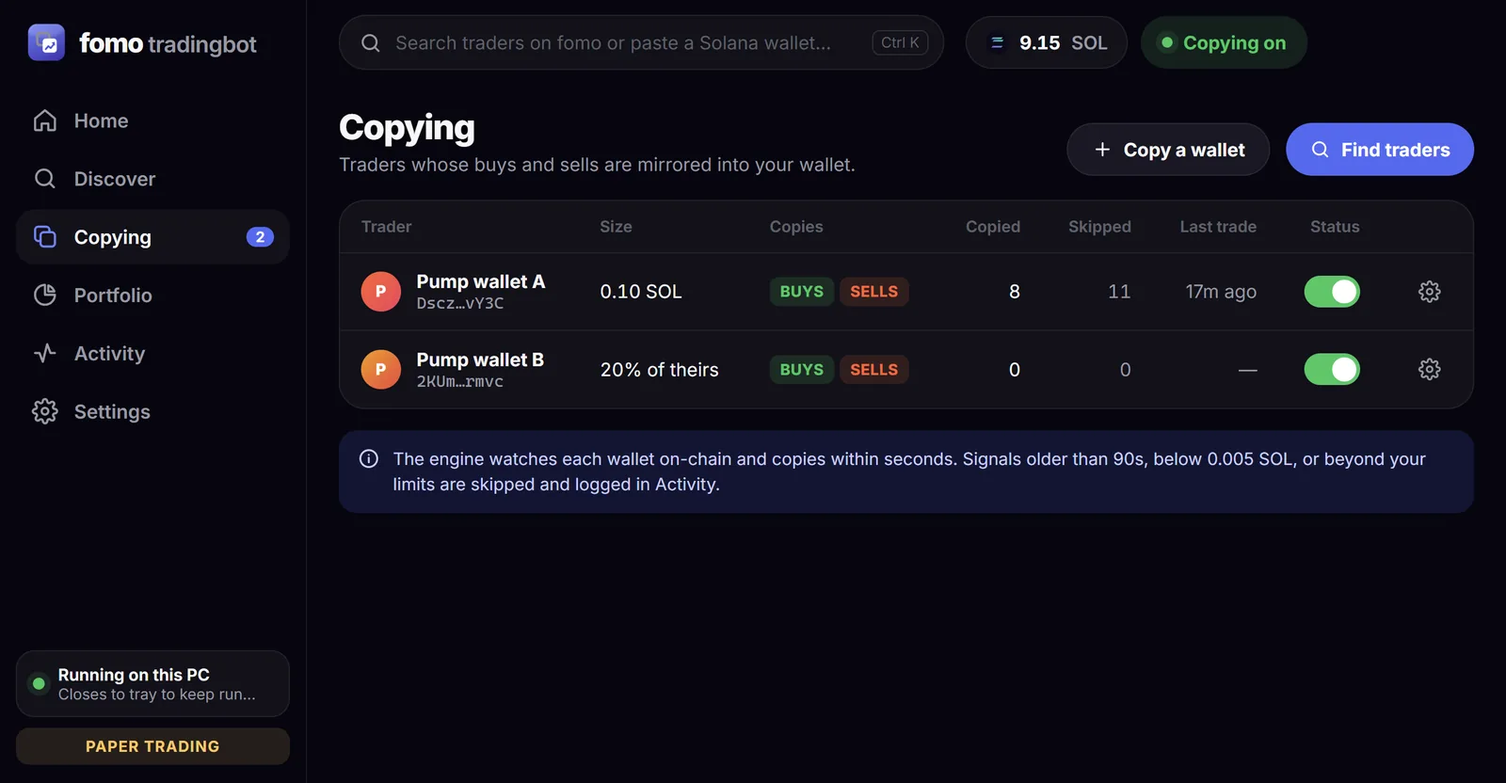
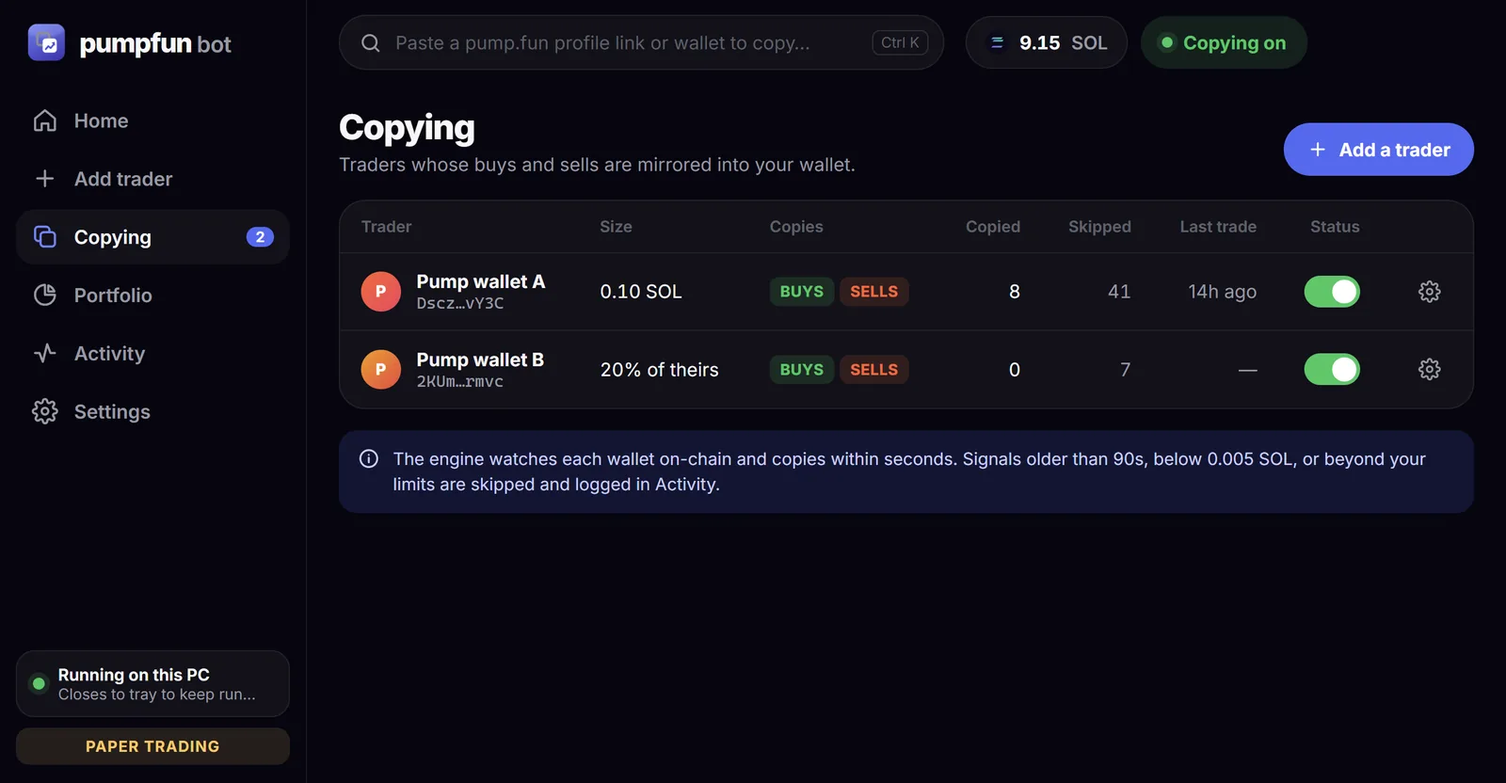
v1.5.0: rename to Pumpfun Bot (data and updates carry over)

diff --git a/web/index.html b/web/index.html
@@ -3,9 +3,9 @@
 <head>
   <meta charset="utf-8">
   <meta name="viewport" content="width=device-width, initial-scale=1">
-  <title>Fomo Tradingbot — copy trade pump.fun traders on autopilot</title>
+  <title>Pumpfun Bot — copy trade pump.fun traders on autopilot</title>
   <meta name="description" content="Paste any pump.fun trader and mirror their Solana buys and sells within seconds. Windows desktop app plus a 24/7 server for a spare PC. Paper mode, risk limits, keys stay on your machine.">
-  <meta property="og:title" content="Fomo Tradingbot">
+  <meta property="og:title" content="Pumpfun Bot">
   <meta property="og:description" content="Copy trade pump.fun traders on autopilot. Desktop app + 24/7 server.">
   <meta property="og:image" content="/img/home.webp">
   <meta name="theme-color" content="#060510">
@@ -19,7 +19,7 @@
 <body>
   <header class="nav">
     <div class="wrap nav-in">
-      <a href="/" class="logo"><img src="/img/icon.png" alt=""><span><b>fomo</b> tradingbot</span></a>
+      <a href="/" class="logo"><img src="/img/icon.png" alt=""><span><b>pumpfun</b> bot</span></a>
       <nav class="links">
         <a href="#features">Features</a>
         <a href="#how">How it works</a>
@@ -38,7 +38,7 @@
         <h1>Copy the best traders<br>on <span class="grad">pump.fun</span>. Automatically.</h1>
         <p class="lead">Paste a trader&#39;s pump.fun profile link, hit <b>Copy</b>. Every buy and sell they make is mirrored into your wallet within seconds — with your sizing and your limits.</p>
         <div class="cta" id="download">
-          <a class="btn white lg" href="https://github.com/rimidalvsulrod/fomo-tradingbot/releases/latest/download/FomoTradingbot-Setup.exe">
+          <a class="btn white lg" href="https://github.com/rimidalvsulrod/fomo-tradingbot/releases/latest/download/PumpfunBot-Setup.exe">
             <svg viewBox="0 0 24 24"><path fill="currentColor" d="M3 5.5 10.5 4.4v7.1H3zm8.5-1.2L21 3v8.5h-9.5zM3 12.5h7.5v7.1L3 18.5zm8.5 0H21V21l-9.5-1.3z"/></svg>
             Download for Windows
           </a>
@@ -46,7 +46,7 @@
         </div>
         <div class="fine">Free · one-click install · updates itself · starts in paper mode</div>
         <div class="shot-wrap">
-          <img class="shot" src="/img/home.webp" alt="Fomo Tradingbot dashboard showing portfolio, copied traders and live feed" width="1600" height="832">
+          <img class="shot" src="/img/home.webp" alt="Pumpfun Bot dashboard showing portfolio, copied traders and live feed" width="1600" height="832">
         </div>
       </div>
     </section>
@@ -67,7 +67,7 @@
         <article class="feat"><div class="ic">⚡</div><h3>Mirror buys &amp; sells</h3><p>The engine watches each trader's Solana wallet live. When they buy, you buy. When they sell 40% of a bag, you sell 40% of yours.</p></article>
         <article class="feat"><div class="ic">🧪</div><h3>Paper mode first</h3><p>Every new install simulates trades with real Jupiter quotes. Watch a trader's real performance before you put a single SOL on the line.</p></article>
         <article class="feat"><div class="ic">🛡</div><h3>Risk limits</h3><p>Fixed SOL or % of their size, max per trade, daily spend cap, SOL reserve, max positions, auto take-profit and stop-loss.</p></article>
-        <article class="feat"><div class="ic">🖥</div><h3>24/7 server</h3><p>Run FomoTradingbotServer.exe on a spare PC and the bot never sleeps. Pair your desktop app with a 6-digit code — no ports, no accounts.</p></article>
+        <article class="feat"><div class="ic">🖥</div><h3>24/7 server</h3><p>Turn on Run 24/7 on a spare PC and the bot never sleeps. Pair your desktop app with a 6-digit code — no ports, no accounts.</p></article>
         <article class="feat"><div class="ic">🔐</div><h3>Your keys stay home</h3><p>Use a dedicated trading wallet. Its key is encrypted on the machine that runs the bot, sent over the LAN encrypted, and never uploaded anywhere.</p></article>
       </div>
     </section>
@@ -100,13 +100,13 @@
             <li><b>Optional:</b> turn on <i>Let my other PCs connect</i>, then on your main PC use Settings → <i>Find computers</i> and type the pairing code to control it remotely.</li>
           </ol>
           <div class="cta left">
-            <a class="btn primary lg" href="https://github.com/rimidalvsulrod/fomo-tradingbot/releases/latest/download/FomoTradingbot-Setup.exe">Download the app</a>
-            <a class="btn ghost lg" href="https://github.com/rimidalvsulrod/fomo-tradingbot/releases/latest/download/FomoTradingbotServer.exe">Headless server (advanced)</a>
+            <a class="btn primary lg" href="https://github.com/rimidalvsulrod/fomo-tradingbot/releases/latest/download/PumpfunBot-Setup.exe">Download the app</a>
+            <a class="btn ghost lg" href="https://github.com/rimidalvsulrod/fomo-tradingbot/releases/latest/download/PumpfunBotServer.exe">Headless server (advanced)</a>
           </div>
         </div>
         <div class="term" aria-label="Server window preview">
-          <div class="term-bar"><span></span><span></span><span></span><em>Fomo Tradingbot Server</em></div>
-<pre><span class="b">fomo</span> <b>tradingbot</b>  <span class="g">server v1.0.0</span>
+          <div class="term-bar"><span></span><span></span><span></span><em>Pumpfun Bot Server</em></div>
+<pre><span class="b">pumpfun</span> <b>bot</b>  <span class="g">server v1.0.0</span>
 <span class="g">Copy-trading engine that keeps running 24/7.</span>
 
 <b>Connect the desktop app</b>
@@ -126,7 +126,7 @@
     <section id="faq" class="wrap sec">
       <div class="sec-h"><span class="eyebrow">FAQ</span><h2>Questions</h2></div>
       <div class="faq">
-        <details><summary>Is this the official fomo app?</summary><p>No. Fomo Tradingbot is an independent, unofficial tool and is not affiliated with or endorsed by Fomo Labs or pump.fun. It doesn't log in to fomo or use fomo's systems — it copies Solana wallets you choose.</p></details>
+        <details><summary>Is this made by pump.fun?</summary><p>No. Pumpfun Bot is an independent, unofficial tool and is not affiliated with or endorsed by pump.fun or Fomo Labs. It doesn't log in to fomo or use fomo's systems — it copies Solana wallets you choose.</p></details>
         <details><summary>How do I find a trader to copy?</summary><p>On pump.fun, open any coin and click a name in its trades list — their profile link (pump.fun/profile/…) contains their wallet. Paste that link into the app. You don&#39;t need a pump.fun account.</p></details>
         <details><summary>Which coins can it copy?</summary><p>Anything on Solana — including brand-new pump.fun coins still on the bonding curve and coins that have graduated. Buys and sells go through Jupiter at the best available price.</p></details>
         <details><summary>Where does my private key go?</summary><p>Nowhere. Import a dedicated trading wallet in Settings; the key is encrypted with a key unique to the machine running the bot. When you pair with a server, the key travels across your LAN encrypted with that pairing's secret.</p></details>
@@ -139,14 +139,14 @@
     <section class="wrap final">
       <h2>Never miss a trade again.</h2>
       <div class="cta">
-        <a class="btn white lg" href="https://github.com/rimidalvsulrod/fomo-tradingbot/releases/latest/download/FomoTradingbot-Setup.exe">Download for Windows</a>
+        <a class="btn white lg" href="https://github.com/rimidalvsulrod/fomo-tradingbot/releases/latest/download/PumpfunBot-Setup.exe">Download for Windows</a>
         </div>
     </section>
   </main>
 
   <footer class="wrap foot">
-    <div class="logo small"><img src="/img/icon.png" alt=""><span><b>fomo</b> tradingbot</span></div>
-    <p>Unofficial tool. Not affiliated with Fomo Labs or pump.fun. Copy trading memecoins is extremely risky — you can lose everything you put in. Nothing here is financial advice. MIT license.</p>
+    <div class="logo small"><img src="/img/icon.png" alt=""><span><b>pumpfun</b> bot</span></div>
+    <p>Unofficial tool. Not affiliated with pump.fun or Fomo Labs. Copy trading memecoins is extremely risky — you can lose everything you put in. Nothing here is financial advice. MIT license.</p>
   </footer>
 </body>
 </html>

diff --git a/desktop/main.js b/desktop/main.js
@@ -8,7 +8,8 @@ const WebSocket = require('ws');
 const { Engine, startApi, secure, DISCOVERY_PORT, DISCOVERY_MAGIC, VERSION } = require('../engine');
 
 app.setAppUserModelId('com.fomotradingbot.desktop');
-if (process.env.FOMOBOT_USERDATA) app.setPath('userData', process.env.FOMOBOT_USERDATA);
+// Data folder stays 'fomo-tradingbot' from before the rename so settings, wallet and traders carry over.
+app.setPath('userData', process.env.FOMOBOT_USERDATA || path.join(app.getPath('appData'), 'fomo-tradingbot'));
 if (!app.requestSingleInstanceLock()) { app.quit(); process.exit(0); }
 
 const userData = app.getPath('userData');
@@ -93,7 +94,7 @@ function state247() {
     run247: !!cfg.run247,
     lanAccess: !!cfg.lanAccess,
     lanActive: !!(local && local.lan),
-    lanError: cfg.lanAccess && local && !local.lan ? `Port ${cfg.lanPort || 7420} is in use on this PC (is FomoTradingbotServer.exe running here too?)` : null,
+    lanError: cfg.lanAccess && local && !local.lan ? `Port ${cfg.lanPort || 7420} is in use on this PC (is PumpfunBotServer.exe running here too?)` : null,
     port: local && local.lan ? local.port : cfg.lanPort || 7420,
     pin: local && local.lan ? local.api.pin : null,
     ips,
@@ -176,7 +177,7 @@ async function engineRequest(method, p, body) {
 
 function friendlyNetError(e) {
   const m = String(e?.cause?.code || e?.code || e?.message || e);
-  if (/ECONNREFUSED/.test(m)) return 'Server not reachable — is FomoTradingbotServer.exe running?';
+  if (/ECONNREFUSED/.test(m)) return 'Bot not reachable — is the other PC on and the bot running?';
   if (/ETIMEDOUT|EHOSTUNREACH|ENETUNREACH|timeout|aborted/i.test(m)) return 'Server not reachable — check the IP and that both PCs are on the same network';
   return e?.message || m;
 }
@@ -217,7 +218,7 @@ function createWindow() {
   win = new BrowserWindow({
     width: 1360, height: 860, minWidth: 1040, minHeight: 660,
     backgroundColor: '#060510',
-    title: 'Fomo Tradingbot',
+    title: 'Pumpfun Bot',
     icon: path.join(__dirname, '..', 'assets', 'icon.ico'),
     titleBarStyle: 'hidden',
     titleBarOverlay: { color: '#060510', symbolColor: '#9899a3', height: 44 },
@@ -235,7 +236,7 @@ function createWindow() {
     e.preventDefault();
     win.hide();
     if (!cfg.trayHintShown && tray) {
-      tray.displayBalloon({ title: 'Still copy trading', content: 'Fomo Tradingbot keeps running in the tray. Right-click the icon to quit.', iconType: 'info' });
+      tray.displayBalloon({ title: 'Still copy trading', content: 'Pumpfun Bot keeps running in the tray. Right-click the icon to quit.', iconType: 'info' });
       cfg.trayHintShown = true;
       saveCfg();
     }
@@ -249,16 +250,16 @@ function createWindow() {
 
 function createTray() {
   tray = new Tray(nativeImage.createFromPath(path.join(__dirname, '..', 'assets', 'icon.ico')));
-  tray.setToolTip('Fomo Tradingbot');
+  tray.setToolTip('Pumpfun Bot');
   tray.on('click', showWindow);
   updateTray();
 }
 
 function updateTray() {
   if (!tray) return;
-  tray.setToolTip(`Fomo Tradingbot — ${connState.connected ? (connState.kind === 'local' ? 'running on this PC' : 'connected to ' + connState.name) : 'disconnected'}`);
+  tray.setToolTip(`Pumpfun Bot — ${connState.connected ? (connState.kind === 'local' ? 'running on this PC' : 'connected to ' + connState.name) : 'disconnected'}`);
   tray.setContextMenu(Menu.buildFromTemplate([
-    { label: 'Open Fomo Tradingbot', click: showWindow },
+    { label: 'Open Pumpfun Bot', click: showWindow },
     { type: 'separator' },
     { label: 'Pause copy trading', click: () => engineRequest('POST', '/api/bot/stop') },
     { label: 'Resume copy trading', click: () => engineRequest('POST', '/api/bot/start') },
@@ -363,7 +364,7 @@ function setupUpdates() {
   autoUpdater.on('update-available', (i) => setUpdateState({ state: 'downloading', version: i.version }));
   autoUpdater.on('update-downloaded', (i) => {
     setUpdateState({ state: 'ready', version: i.version });
-    if (tray) tray.displayBalloon({ title: 'Update ready', content: `Fomo Tradingbot ${i.version} is ready. Restart from the app to install it.`, iconType: 'info' });
+    if (tray) tray.displayBalloon({ title: 'Update ready', content: `Pumpfun Bot ${i.version} is ready. Restart from the app to install it.`, iconType: 'info' });
   });
   autoUpdater.on('error', (e) => dlog('update error', e));
   const check = () => autoUpdater.checkForUpdates().catch((e) => dlog('update check failed', e));
@@ -388,7 +389,7 @@ app.whenReady().then(async () => {
     await connect();
   } catch (e) {
     dlog('connect failed', e);
-    dialog.showErrorBox('Fomo Tradingbot', 'Could not start the trading engine: ' + e.message);
+    dialog.showErrorBox('Pumpfun Bot', 'Could not start the trading engine: ' + e.message);
   }
   if (process.env.FOMOBOT_SCREENSHOT) captureScreens(process.env.FOMOBOT_SCREENSHOT);
 });

diff --git a/desktop/renderer/app.js b/desktop/renderer/app.js
@@ -119,7 +119,6 @@ const S = {
   trades: [],
   logs: [],
   conn: { connected: false, kind: 'local' },
-  fomo: { signedIn: false, me: null, checked: false },
   discover: { q: '', error: null },
   activityTab: 'trades',
   activityFilter: 'all',
@@ -812,9 +811,9 @@ VIEWS.settings = () => {
         ${S.always.lanError ? `<div class="note warn" style="margin-top:8px">${icon('warn')}<div>${esc(S.always.lanError)}</div></div>` : ''}
         ${S.always.lanActive ? `<div class="server-item" style="margin-top:8px"><div class="server-ico">${icon('link')}</div><div class="grow"><div class="small muted">On your other PC: Settings → Find computers, or enter</div><div class="mono" style="margin-top:2px">${S.always.ips.map((i) => `${esc(i.address)}:${esc(S.always.port)}`).join(' · ') || 'no network found'}</div></div><div style="text-align:right"><div class="small muted">Pairing code</div><div class="num" style="font-size:22px;font-weight:800;letter-spacing:.12em">${esc(String(S.always.pin || '').replace(/(\d{3})(\d{3})/, '$1 $2'))}</div><a class="small" id="newPin">New code</a></div></div>` : ''}` : ''}
         <div class="sec-title">${c.kind === 'local' ? 'Control a bot on another PC' : 'Switch computer'}</div>
-        <div class="muted small" style="line-height:1.55;margin-bottom:12px">If the bot runs on another PC (this app with “Let my other PCs connect” on, or FomoTradingbotServer.exe), find it here. Both PCs need to be on the same network.</div>
+        <div class="muted small" style="line-height:1.55;margin-bottom:12px">If the bot runs on another PC (this app with “Let my other PCs connect” on, or PumpfunBotServer.exe), find it here. Both PCs need to be on the same network.</div>
         <div class="row"><button class="btn primary" id="discoverBtn">${SET.discovering ? '<span class="spinner sm"></span>Searching…' : icon('search') + 'Find computers'}</button><button class="btn ghost" id="manualConn">Enter IP manually</button></div>
-        ${SET.discovered ? `<div style="margin-top:14px">${SET.discovered.length ? SET.discovered.map((d) => `<div class="server-item"><div class="server-ico">${icon('server')}</div><div class="grow"><div style="font-weight:700">${esc(d.name)}</div><div class="small muted mono">${esc(d.host)}:${esc(d.port)} · v${esc(d.version)}</div></div><button class="btn primary sm" data-pair="${esc(d.host)}" data-port="${esc(d.port)}" data-name="${esc(d.name)}">Pair</button></div>`).join('') : `<div class="note warn">${icon('warn')}<div>Nothing found. Make sure the bot is running on the other PC (this app with “Let my other PCs connect” on, or FomoTradingbotServer.exe), both PCs are on the same Wi-Fi/LAN, and Windows Firewall allowed it (it asks the first time). Or use “Enter IP manually”.</div></div>`}</div>` : ''}
+        ${SET.discovered ? `<div style="margin-top:14px">${SET.discovered.length ? SET.discovered.map((d) => `<div class="server-item"><div class="server-ico">${icon('server')}</div><div class="grow"><div style="font-weight:700">${esc(d.name)}</div><div class="small muted mono">${esc(d.host)}:${esc(d.port)} · v${esc(d.version)}</div></div><button class="btn primary sm" data-pair="${esc(d.host)}" data-port="${esc(d.port)}" data-name="${esc(d.name)}">Pair</button></div>`).join('') : `<div class="note warn">${icon('warn')}<div>Nothing found. Make sure the bot is running on the other PC (this app with “Let my other PCs connect” on, or PumpfunBotServer.exe), both PCs are on the same Wi-Fi/LAN, and Windows Firewall allowed it (it asks the first time). Or use “Enter IP manually”.</div></div>`}</div>` : ''}
       </div>
 
       <div class="card">
@@ -876,7 +875,7 @@ VIEWS.settings = () => {
       <div class="card">
         <div class="card-h">${icon('info')}<h3>App</h3><span class="muted small" style="margin-left:auto">v${esc(S.info.version || '')}</span></div>
         <div class="toggle-row"><div class="grow"><div class="t">Keep running in the tray</div><div class="d">Closing the window keeps the local engine copying</div></div><label class="switch"><input type="checkbox" id="trayToggle" ${S.info.closeToTray ? 'checked' : ''}><span></span></label></div>
-        <div class="small faint" style="margin-top:10px;line-height:1.5">Unofficial tool, not affiliated with Fomo Labs or pump.fun. Copy trading is risky — memecoins can go to zero in minutes. Nothing here is financial advice.</div>
+        <div class="small faint" style="margin-top:10px;line-height:1.5">Unofficial tool, not affiliated with pump.fun or Fomo Labs. Copy trading is risky — memecoins can go to zero in minutes. Nothing here is financial advice.</div>
       </div>
     </div>
   </div>`;

diff --git a/server/update.js b/server/update.js
@@ -1,5 +1,5 @@
 'use strict';
-// Self-update for the packaged server: pulls FomoTradingbotServer.exe from the latest GitHub release,
+// Self-update for the packaged server: pulls the server exe from the latest GitHub release,
 // swaps it in place of the running exe (Windows allows renaming a running exe) and restarts.
 const fs = require('fs');
 const { spawn } = require('child_process');
@@ -7,7 +7,8 @@ const { Readable } = require('stream');
 const { pipeline } = require('stream/promises');
 
 const LATEST = 'https://api.github.com/repos/rimidalvsulrod/fomo-tradingbot/releases/latest';
-const ASSET = 'FomoTradingbotServer.exe';
+// Current name first; older releases (and older servers looking for it) use the pre-rename name.
+const ASSETS = ['PumpfunBotServer.exe', 'FomoTradingbotServer.exe'];
 
 function newer(a, b) {
   const x = a.split('.').map(Number);
@@ -27,7 +28,7 @@ async function downloadUpdate(current, exePath) {
   const rel = await res.json();
   const version = String(rel.tag_name || '').replace(/^v/, '');
   if (!version || !newer(version, current)) return null;
-  const asset = (rel.assets || []).find((a) => a.name === ASSET);
+  const asset = ASSETS.map((n) => (rel.assets || []).find((a) => a.name === n)).find(Boolean);
   if (!asset) return null;
   const file = exePath + '.new';
   const dl = await fetch(asset.browser_download_url, { headers: { 'user-agent': 'fomo-tradingbot-server' } });
@@ -43,7 +44,7 @@ function swapAndRestart(exePath, newFile, args) {
   fs.renameSync(exePath, exePath + '.old');
   fs.renameSync(newFile, exePath);
   const quoted = args.map((a) => `"${String(a).replace(/"/g, '')}"`).join(' ');
-  spawn('cmd.exe', ['/c', `start "Fomo Tradingbot Server" "${exePath}" ${quoted}`], {
+  spawn('cmd.exe', ['/c', `start "Pumpfun Bot Server" "${exePath}" ${quoted}`], {
     detached: true, stdio: 'ignore', windowsVerbatimArguments: true,
   }).unref();
 }

diff --git a/server/index.js b/server/index.js
@@ -1,6 +1,6 @@
 'use strict';
 process.noDeprecation = true;
-// Fomo Tradingbot Server — headless 24/7 copy-trading engine for a spare PC.
+// Pumpfun Bot Server — headless 24/7 copy-trading engine for a spare PC.
 const fs = require('fs');
 const os = require('os');
 const path = require('path');
@@ -29,7 +29,7 @@ main().catch((e) => {
 });
 
 async function main() {
-  process.stdout.write('\x1b]0;Fomo Tradingbot Server\x07');
+  process.stdout.write('\x1b]0;Pumpfun Bot Server\x07');
   banner();
   engine = new Engine({ dataDir });
   engine.on('event', (ev) => { if (ev.type === 'log') printLog(ev.entry); });
@@ -92,9 +92,9 @@ function setupAutoUpdate() {
 
 function banner() {
   console.log('');
-  console.log(`  ${C.blue}${C.bold}fomo${C.reset}${C.white}${C.bold} tradingbot${C.reset}  ${C.gray}server v${VERSION}${C.reset}`);
+  console.log(`  ${C.blue}${C.bold}pumpfun${C.reset}${C.white}${C.bold} bot${C.reset}  ${C.gray}server v${VERSION}${C.reset}`);
   console.log(`  ${C.gray}Copy-trading engine that keeps running 24/7. Leave this window open.${C.reset}`);
-  console.log(`  ${C.dim}Unofficial tool — not affiliated with Fomo Labs.${C.reset}`);
+  console.log(`  ${C.dim}Unofficial tool — not affiliated with pump.fun or Fomo Labs.${C.reset}`);
   console.log('');
 }
 
@@ -172,7 +172,7 @@ function toggleStartup() {
     line(C.yellow, 'warn', 'Will no longer start with Windows');
   } else {
     const cmd = isPackaged ? `"${exePath}"` : `"${exePath}" "${path.resolve(process.argv[1])}"`;
-    fs.writeFileSync(f, `@echo off\r\ncd /d "${path.dirname(exePath)}"\r\nstart "Fomo Tradingbot Server" ${cmd}\r\n`);
+    fs.writeFileSync(f, `@echo off\r\ncd /d "${path.dirname(exePath)}"\r\nstart "Pumpfun Bot Server" ${cmd}\r\n`);
     line(C.green, 'success', 'Will start automatically when you sign in to Windows');
   }
 }

diff --git a/scripts/build-server.js b/scripts/build-server.js
@@ -1,5 +1,5 @@
 'use strict';
-// Builds dist/FomoTradingbotServer.exe: esbuild bundle -> Node single executable application.
+// Builds dist/PumpfunBotServer.exe: esbuild bundle -> Node single executable application.
 const fs = require('fs');
 const path = require('path');
 const { execFileSync } = require('child_process');
@@ -7,7 +7,7 @@ const { execFileSync } = require('child_process');
 const root = path.join(__dirname, '..');
 const build = path.join(root, 'build', 'server');
 const dist = path.join(root, 'dist');
-const exe = path.join(dist, 'FomoTradingbotServer.exe');
+const exe = path.join(dist, 'PumpfunBotServer.exe');
 const version = require('../package.json').version;
 
 fs.mkdirSync(build, { recursive: true });
@@ -44,12 +44,12 @@ execFileSync(rcedit, [exe,
   '--set-icon', path.join(root, 'assets', 'server-icon.ico'),
   '--set-file-version', version,
   '--set-product-version', version,
-  '--set-version-string', 'ProductName', 'Fomo Tradingbot Server',
-  '--set-version-string', 'FileDescription', 'Fomo Tradingbot Server',
-  '--set-version-string', 'CompanyName', 'Fomo Tradingbot',
+  '--set-version-string', 'ProductName', 'Pumpfun Bot Server',
+  '--set-version-string', 'FileDescription', 'Pumpfun Bot Server',
+  '--set-version-string', 'CompanyName', 'Pumpfun Bot',
   '--set-version-string', 'LegalCopyright', 'MIT License',
-  '--set-version-string', 'OriginalFilename', 'FomoTradingbotServer.exe',
-  '--set-version-string', 'InternalName', 'FomoTradingbotServer',
+  '--set-version-string', 'OriginalFilename', 'PumpfunBotServer.exe',
+  '--set-version-string', 'InternalName', 'PumpfunBotServer',
 ], { stdio: 'inherit' });
 
 console.log('• injecting app');

diff --git a/desktop/renderer/index.html b/desktop/renderer/index.html
@@ -3,7 +3,7 @@
 <head>
   <meta charset="utf-8">
   <meta http-equiv="Content-Security-Policy" content="default-src 'self'; img-src 'self' https: data:; style-src 'self' 'unsafe-inline'; font-src 'self'; script-src 'self'; connect-src 'none'">
-  <title>Fomo Tradingbot</title>
+  <title>Pumpfun Bot</title>
   <link rel="stylesheet" href="styles.css">
 </head>
 <body>
@@ -11,7 +11,7 @@
     <aside class="sidebar">
       <div class="brand drag">
         <img src="../../assets/icon.png" alt="">
-        <div class="brand-text"><b>fomo</b> tradingbot</div>
+        <div class="brand-text"><b>pumpfun</b> bot</div>
       </div>
       <nav id="nav"></nav>
       <div class="side-foot">

diff --git a/engine/engine.js b/engine/engine.js
@@ -9,7 +9,7 @@ const secure = require('./secure');
 const { Jupiter, SOL_MINT, sleep } = require('./jupiter');
 const { keypairFromSecret, tokenBalanceRaw, parseSwap, getParsedTx, keyStr } = require('./solana');
 
-const VERSION = '1.4.0';
+const VERSION = '1.5.0';
 
 const DEFAULT_SETTINGS = {
   mode: 'paper', // 'paper' simulates fills with live quotes; 'live' signs real transactions

diff --git a/README.md b/README.md
@@ -1,19 +1,19 @@
-# fomo tradingbot
+# Pumpfun Bot
 
 Copy-trade [pump.fun](https://pump.fun) traders (or any Solana wallet). Paste a trader's pump.fun profile link, hit **Copy**, and every buy and sell they make is mirrored into your wallet within seconds.
 
-> Unofficial tool — not affiliated with Fomo Labs or pump.fun. Copy trading memecoins is extremely risky. Not financial advice.
+> Unofficial tool — not affiliated with pump.fun or Fomo Labs. Copy trading memecoins is extremely risky. Not financial advice.
 
-**Website:** https://fomo-tradingbot.vercel.app
+**Website:** https://pumpfun-bot.vercel.app
 
 | Download | What it is |
 | --- | --- |
-| [FomoTradingbot-Setup.exe](https://github.com/rimidalvsulrod/fomo-tradingbot/releases/latest/download/FomoTradingbot-Setup.exe) | Desktop app (one-click install, updates itself). Add wallets to copy, manage copies, see positions. Can run the bot itself. |
-| [FomoTradingbotServer.exe](https://github.com/rimidalvsulrod/fomo-tradingbot/releases/latest/download/FomoTradingbotServer.exe) | Headless 24/7 engine for a spare PC. Updates itself. Pair the desktop app with it using a 6-digit code. |
+| [PumpfunBot-Setup.exe](https://github.com/rimidalvsulrod/fomo-tradingbot/releases/latest/download/PumpfunBot-Setup.exe) | Desktop app (one-click install, updates itself). Add wallets to copy, manage copies, see positions. Can run the bot itself. |
+| [PumpfunBotServer.exe](https://github.com/rimidalvsulrod/fomo-tradingbot/releases/latest/download/PumpfunBotServer.exe) | Headless 24/7 engine for a spare PC. Updates itself. Pair the desktop app with it using a 6-digit code. |
 
 ## Quick start
 
-1. Run **FomoTradingbot-Setup.exe** (SmartScreen: *More info → Run anyway*; it isn't code-signed). It installs in one click and updates itself from then on.
+1. Run **PumpfunBot-Setup.exe** (SmartScreen: *More info → Run anyway*; it isn't code-signed). It installs in one click and updates itself from then on.
 2. **Add trader** → paste a trader's pump.fun profile link (on pump.fun, click a name in any coin's trades). Solana wallets and Solscan/GMGN/Birdeye links work too. You'll see their recent on-chain trades.
 3. **Copy trader** → give them a name and choose a fixed SOL size or a % of their size.
 4. You start in **paper mode**: fills are simulated with live Jupiter quotes. When you're happy, go to **Settings → Trading wallet**, import or create a dedicated wallet, fund it, and switch to **Live**.
@@ -24,7 +24,7 @@ Copy-trade [pump.fun](https://pump.fun) traders (or any Solana wallet). Paste a 
 2. **Settings → Run 24/7**: starts with Windows in the tray, keeps the PC awake, keeps copying with the window closed.
 3. Optional: turn on **Let my other PCs connect**, then on your main PC use **Settings → Find computers** and enter the pairing code to control it remotely (same network).
 
-`FomoTradingbotServer.exe` is still available as a headless alternative (console window, no UI). Server keys: `S` startup, `P` new pairing code, `T` show access token, `I` status, `O` data folder, `Q` quit. Flags: `--port 7420`, `--data <dir>`, `--allow-sleep`.
+`PumpfunBotServer.exe` is still available as a headless alternative (console window, no UI). Server keys: `S` startup, `P` new pairing code, `T` show access token, `I` status, `O` data folder, `Q` quit. Flags: `--port 7420`, `--data <dir>`, `--allow-sleep`.
 
 ## How it works
 
@@ -44,7 +44,7 @@ npm install
 npm start              # desktop app (dev)
 npm run server         # server in the terminal
 npm test               # engine self-test against mainnet (paper trades)
-npm run build          # dist/FomoTradingbotServer.exe + dist/FomoTradingbot.exe
+npm run build          # dist/PumpfunBotServer.exe + dist/PumpfunBot-Setup.exe
 ```
 
 Layout: `engine/` (copy-trading engine + HTTP/WS API), `server/` (24/7 console app), `desktop/` (Electron app), `web/` (Vercel site), `scripts/` (builds and tests).
@@ -55,7 +55,7 @@ MIT License.
 
 ```bash
 npm run build
-gh release create vX.Y.Z dist/FomoTradingbot-Setup.exe dist/FomoTradingbot-Setup.exe.blockmap dist/latest.yml dist/FomoTradingbotServer.exe
+gh release create vX.Y.Z dist/PumpfunBot-Setup.exe dist/PumpfunBot-Setup.exe.blockmap dist/latest.yml dist/PumpfunBotServer.exe
 ```
 
 Installed apps and running servers pick up the new release automatically.
